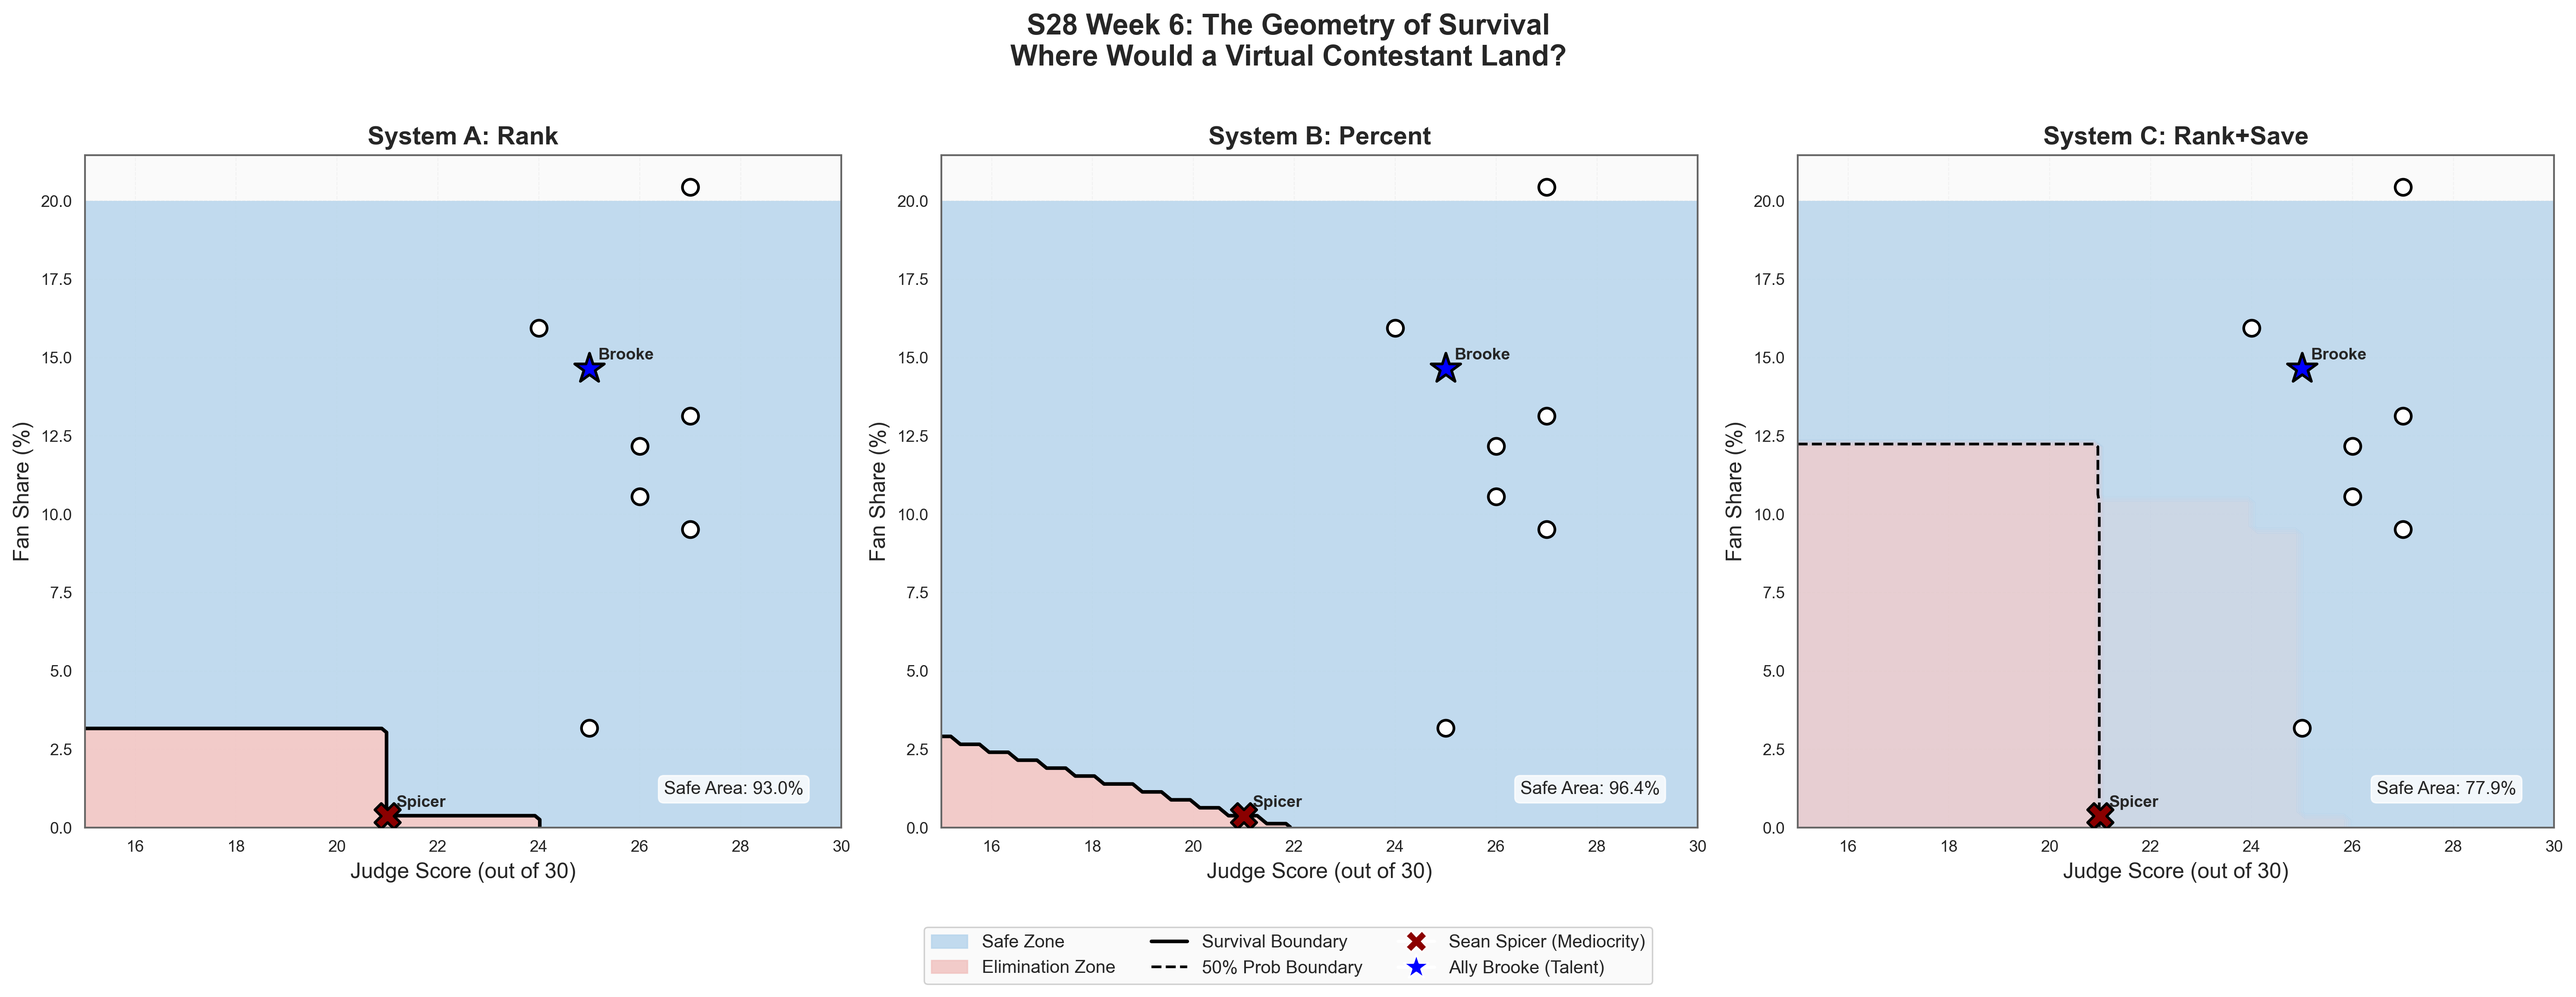
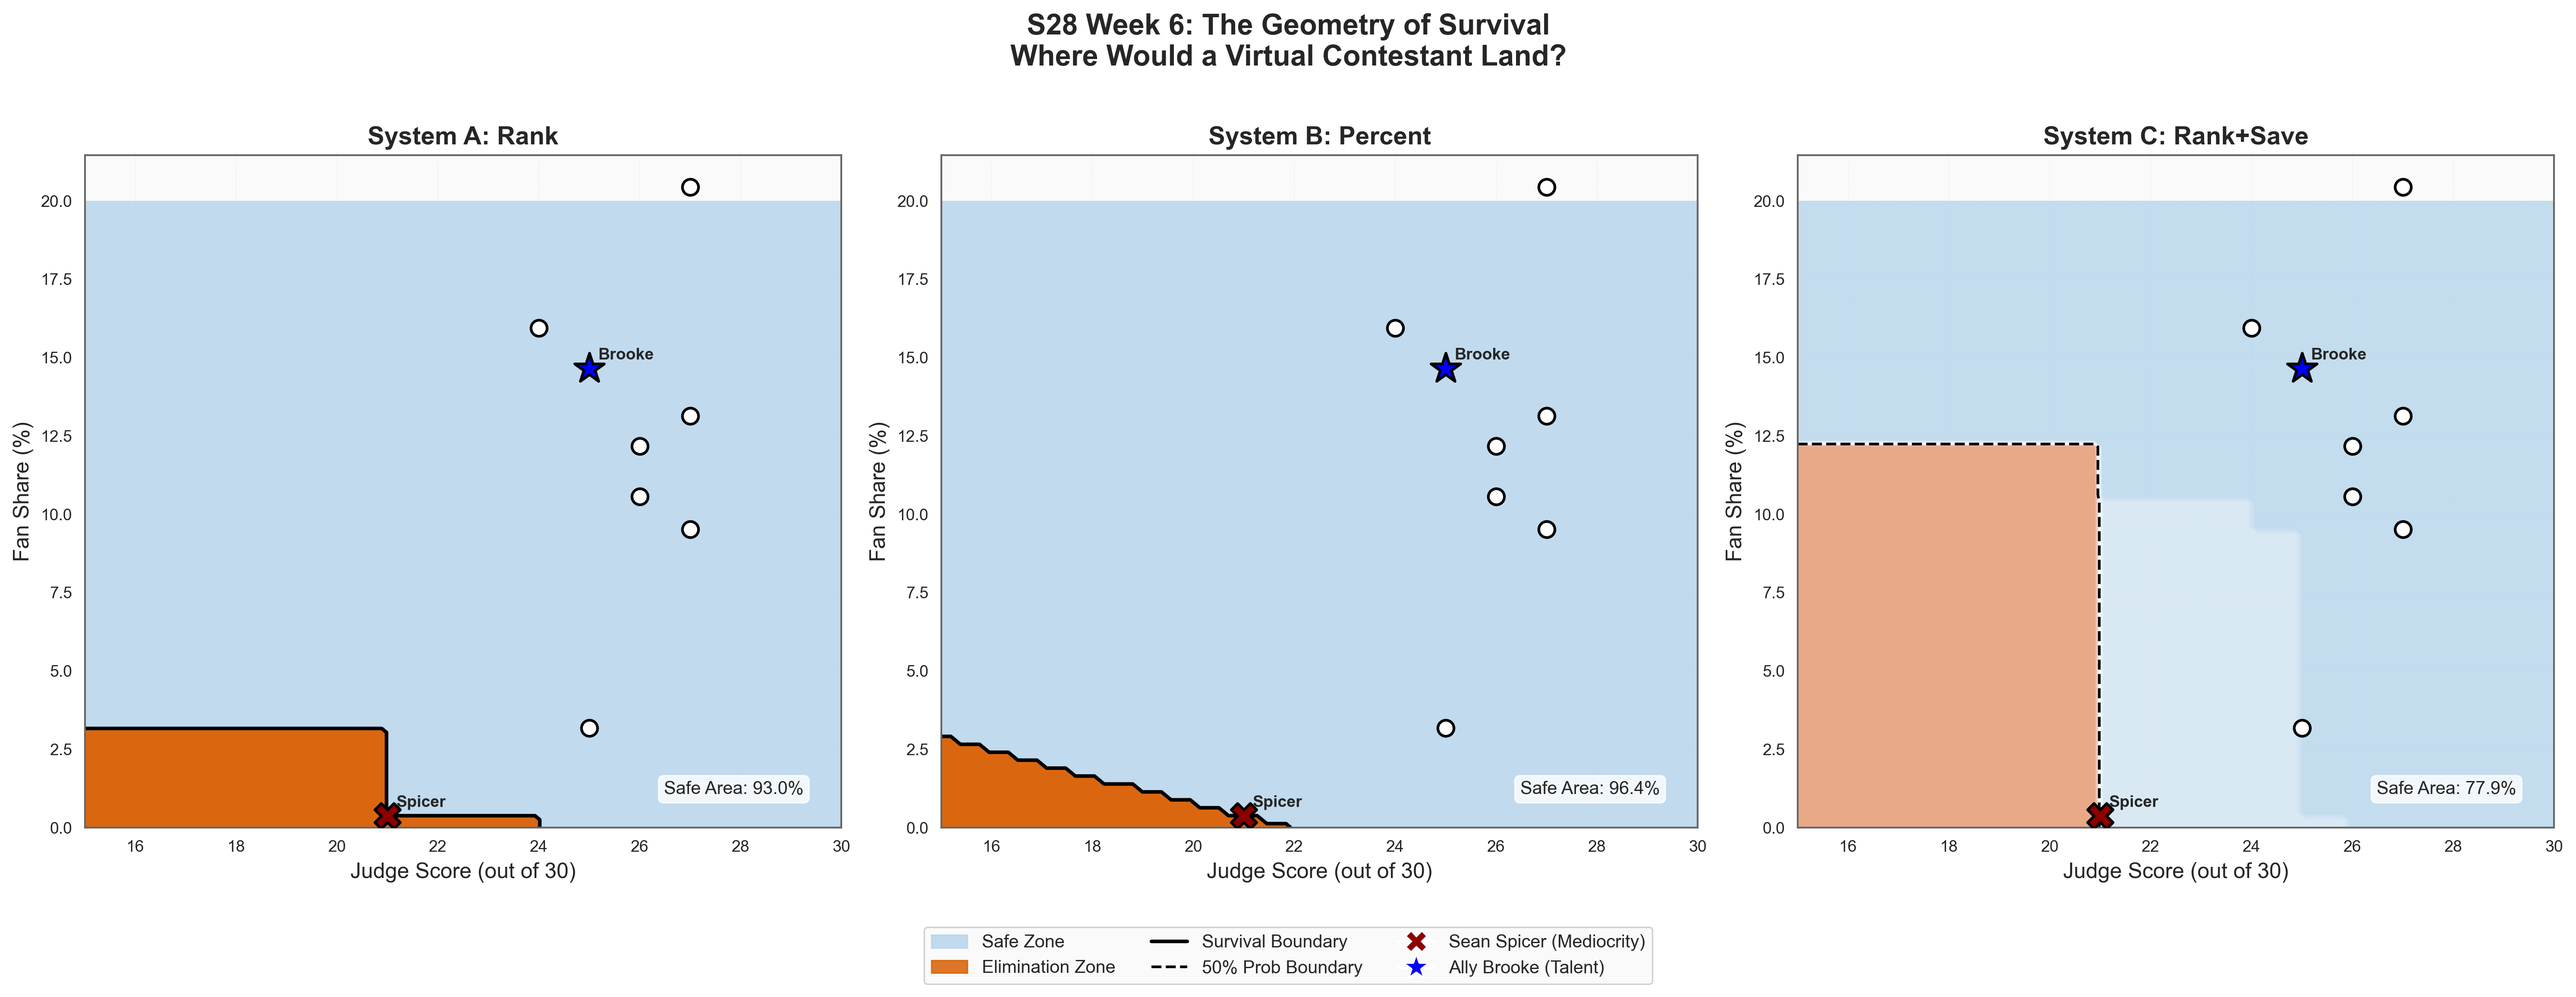
优化生存边界配色

diff --git a/src/system_diagnostics.py b/src/system_diagnostics.py
@@ -197,8 +197,8 @@ def plot_stress_test(results, save_path: Path):
     ax.plot(entropy_vals, tal_surv, color=MORANDI_ACCENT[1], linewidth=3, marker='s', markersize=6,
             label=f'{tal_name} Survival (Talent Protection)')
     
-    # Mediocrity (Risk) - Pink (#F1C3C1)
-    ax.plot(entropy_vals, med_surv, color=MORANDI_COLORS[1], linewidth=3, marker='o', markersize=6,
+    # Mediocrity (Risk) - Strong Orange (#D95F02)
+    ax.plot(entropy_vals, med_surv, color=MORANDI_ACCENT[3], linewidth=3, marker='o', markersize=6,
             label=f'{med_name} Survival (Mediocrity Risk)')
     
     # Identify robustness zone (talent safe >90%, mediocrity <40%)
@@ -454,10 +454,24 @@ def plot_decision_boundary(results, save_path: Path):
         ('System C: Rank+Save', Z_save, MORANDI_COLORS[3])
     ]
     
-    # Smooth colormap: Cherry Blossom Pink (Eliminated) -> Sky Blue (Safe)
-    # Using MORANDI_COLORS[1] (#F1C3C1) and MORANDI_COLORS[0] (#B7D5EC) for a fully Morandi soft look
-    cmap_smooth = LinearSegmentedColormap.from_list('Survival', [MORANDI_COLORS[1], MORANDI_COLORS[0]])
-    cmap_binary = ListedColormap([MORANDI_COLORS[1], MORANDI_COLORS[0]])
+    # Create customized colormap with varying alpha and colors
+    # Z=0.0 (Strong Orange/Dead) -> System A/B elimination
+    # Z=0.4 (Cherry Blossom Pink/Risky) -> System C high-risk zone
+    from matplotlib.colors import to_rgba
+    orange_opaque = to_rgba(MORANDI_ACCENT[3], 0.95)
+    pink_trans = to_rgba(MORANDI_COLORS[1], 0.7)  # Cherry Blossom Pink
+    white_trans = to_rgba('#FFFFFF', 1.0)
+    blue_opaque = to_rgba(MORANDI_COLORS[0], 0.85)
+
+    cmap_smooth = LinearSegmentedColormap.from_list('Survival', [
+        (0.0, orange_opaque),  # 0.0 - Strong Orange
+        (0.4, pink_trans),     # 0.4 - Cherry Blossom Pink
+        (0.5, white_trans),    # 0.5 - Neutral midpoint
+        (1.0, blue_opaque)     # 1.0 - Sky Blue
+    ])
+    
+    # Binary map for System A/B
+    cmap_binary = ListedColormap([orange_opaque, blue_opaque])
     
     for ax, (title, Z, color) in zip(axes, systems):
         # Determine plot style based on whether data is probabilistic
@@ -465,16 +479,16 @@ def plot_decision_boundary(results, save_path: Path):
         
         if is_probabilistic:
             # Use smooth gradient for probabilistic systems (e.g., System C)
-            # Increased alpha to 0.85 to make light Morandi colors pop more
+            # Remove global alpha to use the RGBA alpha from colormap
             contour = ax.contourf(X, Y * 100, Z, levels=np.linspace(0, 1, 21), 
-                                  cmap=cmap_smooth, alpha=0.85)
+                                  cmap=cmap_smooth)
             # Add a dashed line for the 50% "Expected" boundary
             ax.contour(X, Y * 100, Z, levels=[0.5], colors='black', 
                       linewidths=1.5, linestyles='--')
         else:
             # Use binary colors for deterministic systems (System A & B)
             contour = ax.contourf(X, Y * 100, Z, levels=[-0.5, 0.5, 1.5], 
-                                  cmap=cmap_binary, alpha=0.85)
+                                  cmap=cmap_binary)
             # Add solid contour lines
             ax.contour(X, Y * 100, Z, levels=[0.5], colors='black', linewidths=2)
         
@@ -523,7 +537,7 @@ def plot_decision_boundary(results, save_path: Path):
     
     # Create legend
     safe_patch = mpatches.Patch(color=MORANDI_COLORS[0], alpha=0.85, label='Safe Zone')
-    elim_patch = mpatches.Patch(color=MORANDI_COLORS[1], alpha=0.85, label='Elimination Zone')
+    elim_patch = mpatches.Patch(color=MORANDI_ACCENT[3], alpha=0.85, label='Elimination Zone')
     boundary_line = plt.Line2D([0], [0], color='black', linewidth=2, label='Survival Boundary')
     prob_line = plt.Line2D([0], [0], color='black', linewidth=1.5, linestyle='--', label='50% Prob Boundary')
     
